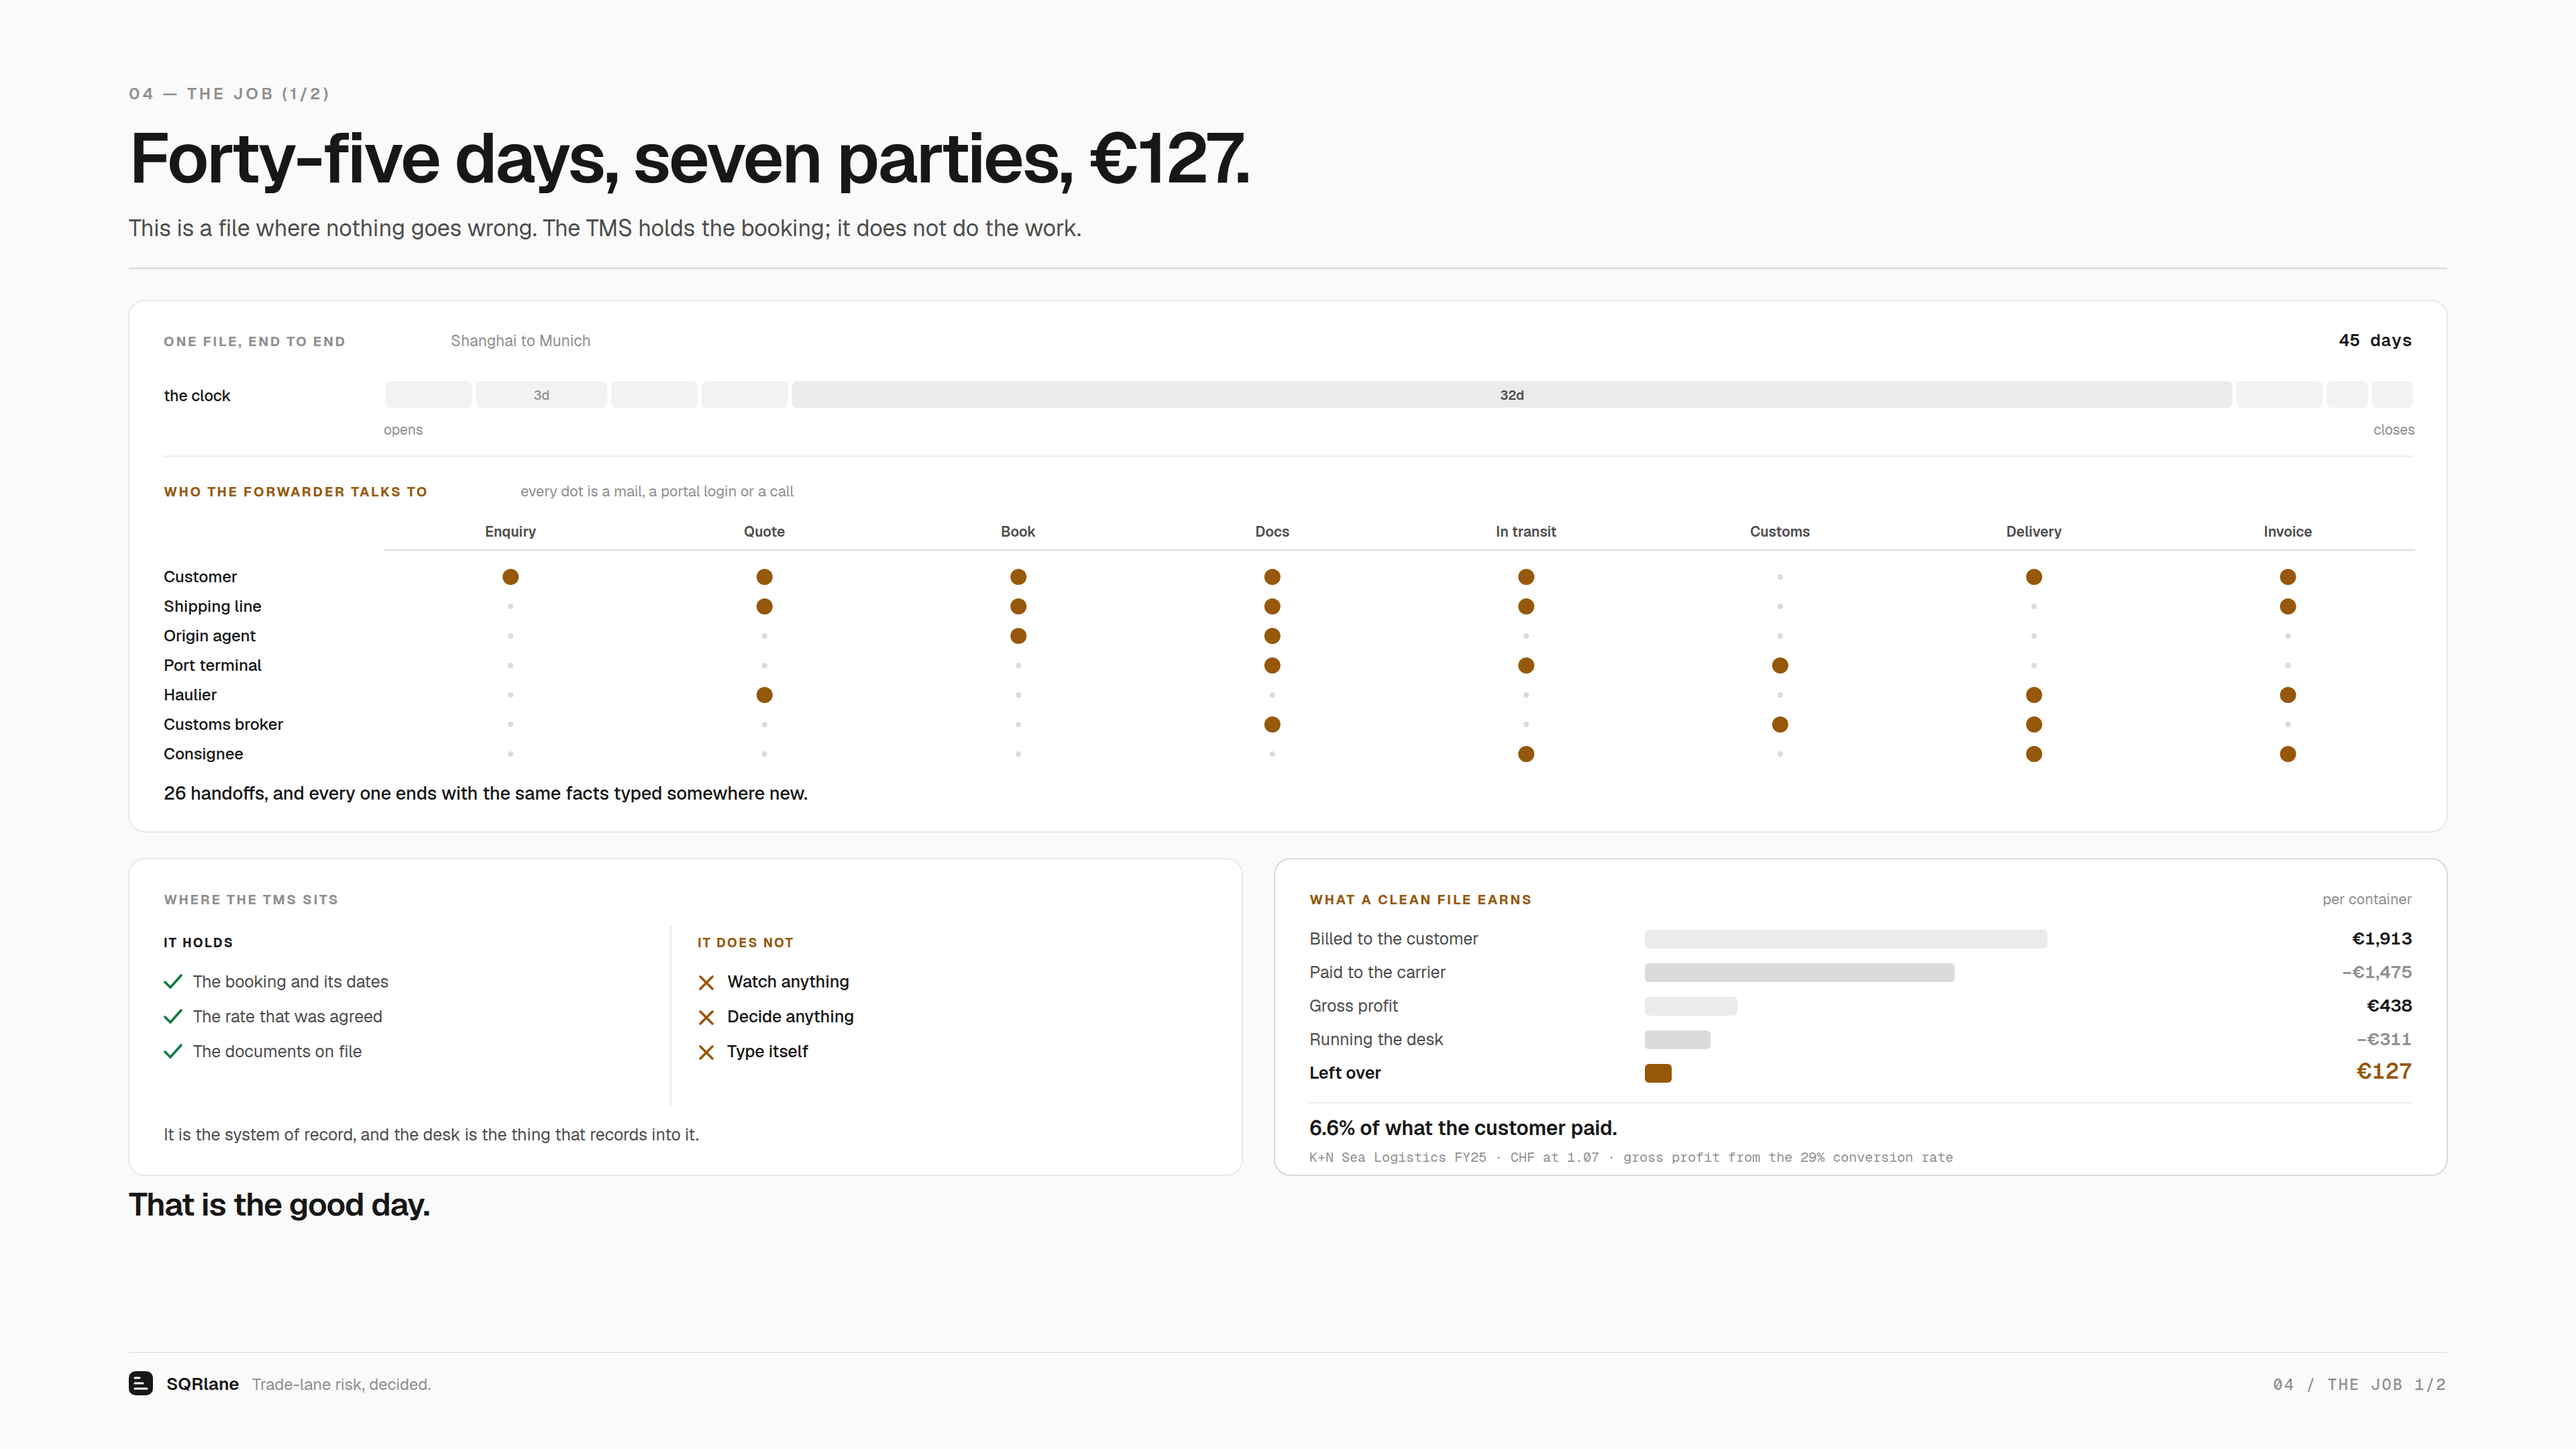
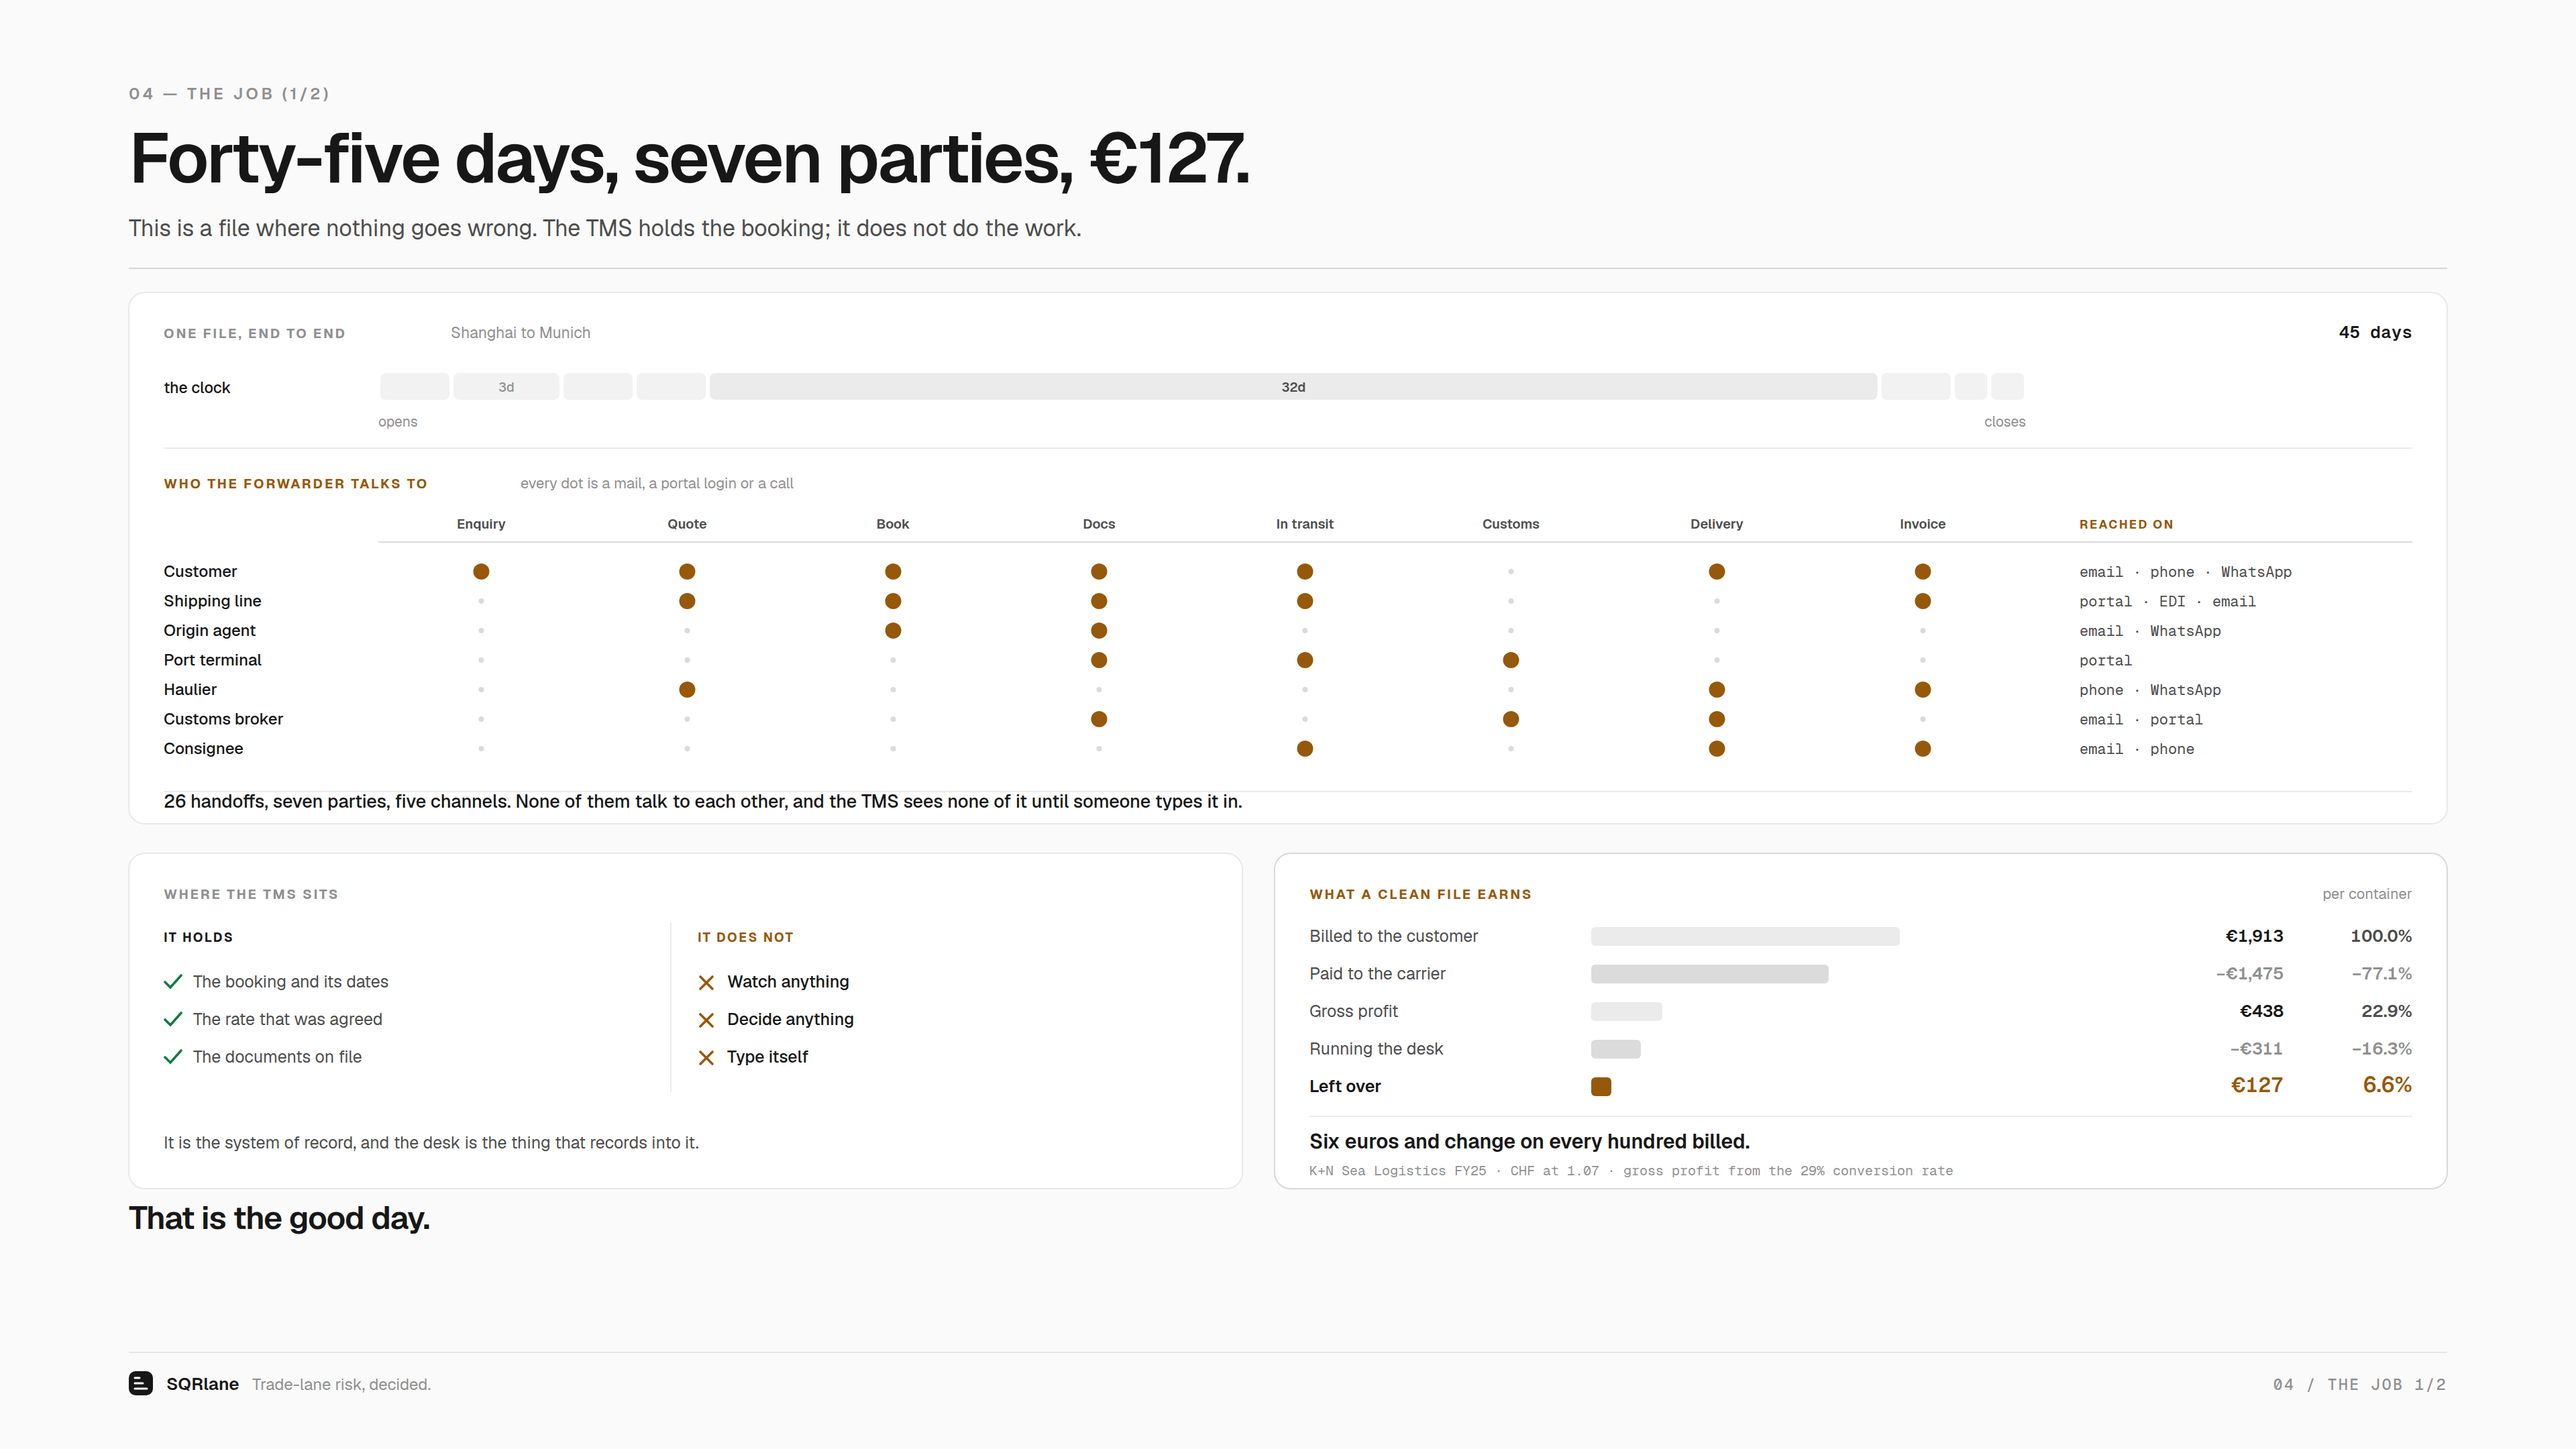
Deck: channels on the web, percentages on the waterfall, and both cards on one rhythm
The matrix showed how many handoffs there are but not what they run on, which
is half the mess. Every party now carries the channels it is actually reached
through - email, phone, WhatsApp, carrier portal, EDI - and the caption reads
26 handoffs, seven parties, five channels, none of them talking to each other,
and the TMS seeing none of it until someone types it in. That is the messy
process thesis stated in the data rather than asserted underneath it.

No percentages there on purpose. There is no published split of forwarder
communication by channel, so naming the channels is honest and inventing shares
for them would not be. The channels themselves are well documented; the mix is
not.

The waterfall gains a percent column beside the euros, since a margin case is
easier to feel as a proportion than an amount: 100% billed, 77% to the carrier,
23% gross, 16% to run the desk, 6.6% left. Its closing line follows - six euros
and change on every hundred billed.

Both bottom cards grow to 250px and share one internal rhythm, so their labels,
dividers and closing lines sit on the same baselines instead of drifting.

Claude-Session: https://claude.ai/code/session_01CuQZ1wNRwUerJJo7pbi7JH

diff --git a/deck/build_slide_04.py b/deck/build_slide_04.py
@@ -26,7 +26,7 @@ s.header("04 — THE JOB (1/2)",
 # =========================================================================
 # THE CLOCK, AND THE COORDINATION WEB
 # =========================================================================
-FY, FH = 224, 396
+FY, FH = 218, 396
 s.card(M, FY, CW, FH)
 s.text(M + 26, FY + 34, "ONE FILE, END TO END", 10, 700, FAINT, ls=1.4)
 s.text(M + 240, FY + 34, "Shanghai to Munich", 11.5, 400, FAINT)
@@ -34,7 +34,7 @@ s.text(W - M - 26, FY + 34, "45 days", 13, 600, FG, anchor="end", cls="mono")
 
 STAGES = [("Enquiry", 2), ("Quote", 3), ("Book", 2), ("Docs", 2),
           ("In transit", 32), ("Customs", 2), ("Delivery", 1), ("Invoice", 1)]
-TX0, TXW = M + 190, CW - 214
+TX0, TXW = M + 186, CW - 500
 UNIT = TXW / 45
 x = TX0
 for name, days in STAGES:
@@ -53,29 +53,36 @@ s.line(M + 26, FY + 116, W - M - 26, FY + 116, BORDER)
 s.text(M + 26, FY + 146, "WHO THE FORWARDER TALKS TO", 10, 700, AMBER, ls=1.4)
 s.text(M + 292, FY + 146, "every dot is a mail, a portal login or a call", 11, 400, FAINT)
 COLS = [n for n, _ in STAGES]
-PARTIES = [("Customer", [1, 1, 1, 1, 1, 0, 1, 1]), ("Shipping line", [0, 1, 1, 1, 1, 0, 0, 1]),
-           ("Origin agent", [0, 0, 1, 1, 0, 0, 0, 0]), ("Port terminal", [0, 0, 0, 1, 1, 1, 0, 0]),
-           ("Haulier", [0, 1, 0, 0, 0, 0, 1, 1]), ("Customs broker", [0, 0, 0, 1, 0, 1, 1, 0]),
-           ("Consignee", [0, 0, 0, 0, 1, 0, 1, 1])]
-TOUCHES = sum(sum(r) for _, r in PARTIES)
+PARTIES = [("Customer", [1, 1, 1, 1, 1, 0, 1, 1], "email · phone · WhatsApp"),
+           ("Shipping line", [0, 1, 1, 1, 1, 0, 0, 1], "portal · EDI · email"),
+           ("Origin agent", [0, 0, 1, 1, 0, 0, 0, 0], "email · WhatsApp"),
+           ("Port terminal", [0, 0, 0, 1, 1, 1, 0, 0], "portal"),
+           ("Haulier", [0, 1, 0, 0, 0, 0, 1, 1], "phone · WhatsApp"),
+           ("Customs broker", [0, 0, 0, 1, 0, 1, 1, 0], "email · portal"),
+           ("Consignee", [0, 0, 0, 0, 1, 0, 1, 1], "email · phone")]
+TOUCHES = sum(sum(r) for _, r, _ in PARTIES)
+CHX = TX0 + TXW + 40
 CWD = TXW / len(COLS)
 for c, lab in enumerate(COLS):
-    s.text(TX0 + c * CWD + CWD / 2, FY + 176, lab, 10.5, 600, MUTED, anchor="middle")
-s.line(TX0, FY + 186, TX0 + TXW, FY + 186, BORDER_STRONG)
-for r, (party, row) in enumerate(PARTIES):
-    y = FY + 206 + r * 22
+    s.text(TX0 + c * CWD + CWD / 2, FY + 176, lab, 10, 600, MUTED, anchor="middle")
+s.text(CHX, FY + 176, "REACHED ON", 9, 700, AMBER, ls=1.2)
+s.line(TX0, FY + 186, W - M - 26, FY + 186, BORDER_STRONG)
+for r, (party, row, chans) in enumerate(PARTIES):
+    y = FY + 208 + r * 22
     s.text(M + 26, y + 4, party, 12, 500, FG)
     for c, on in enumerate(row):
         cx = TX0 + c * CWD + CWD / 2
         s.raw(f'<circle cx="{cx}" cy="{y}" r="{6 if on else 2}" fill="{AMBER if on else GRAY400}"/>')
-s.text(M + 26, FY + FH - 24,
-       f"{TOUCHES} handoffs, and every one ends with the same facts typed somewhere new.",
-       13.5, 500, FG)
+    s.text(CHX, y + 4, chans, 11, 400, MUTED, cls="mono")
+s.line(M + 26, FY + 372, W - M - 26, FY + 372, BORDER)
+s.text(M + 26, FY + FH - 12,
+       f"{TOUCHES} handoffs, seven parties, five channels. None of them talk to each other, and the "
+       "TMS sees none of it until someone types it in.", 13.5, 500, FG)
 
 # =========================================================================
 # WHERE THE TMS SITS
 # =========================================================================
-TY2, TH3 = 640, 236
+TY2, TH3 = 636, 250
 s.card(M, TY2, 830, TH3)
 s.text(M + 26, TY2 + 34, "WHERE THE TMS SITS", 10, 700, FAINT, ls=1.4)
 for lab, x0, col, items in (
@@ -85,7 +92,7 @@ for lab, x0, col, items in (
                                          "Type itself"])):
     s.text(x0, TY2 + 66, lab, 9.5, 700, col, ls=1.2)
     for j, it in enumerate(items):
-        y = TY2 + 96 + j * 26
+        y = TY2 + 100 + j * 28
         if col is AMBER:
             s.raw(f'<path d="M{x0+2} {y-8} l9 9 M{x0+11} {y-8} l-9 9" stroke="{AMBER}" '
                   f'stroke-width="1.8" stroke-linecap="round"/>')
@@ -94,8 +101,8 @@ for lab, x0, col, items in (
                   f'fill="none" stroke-linecap="round"/>')
         s.text(x0 + 22, y, it, 12.5, 500 if col is AMBER else 400,
                FG if col is AMBER else MUTED)
-s.line(M + 404, TY2 + 50, M + 404, TY2 + TH3 - 52, BORDER)
-s.text(M + 26, TY2 + TH3 - 26,
+s.line(M + 404, TY2 + 52, M + 404, TY2 + TH3 - 72, BORDER)
+s.text(M + 26, TY2 + TH3 - 30,
        "It is the system of record, and the desk is the thing that records into it.", 12.5, 400, MUTED)
 
 # =========================================================================
@@ -106,24 +113,27 @@ s.card(BX, TY2, BW, TH3, stroke=BORDER_STRONG)
 s.text(BX + 26, TY2 + 34, "WHAT A CLEAN FILE EARNS", 10, 700, AMBER, ls=1.4)
 s.text(BX + BW - 26, TY2 + 34, "per container", 11, 400, FAINT, anchor="end")
 
-STEPS = [("Billed to the customer", 1913, GRAY400), ("Paid to the carrier", -1475, GRAY400),
-         ("Gross profit", 438, SURFACE_2), ("Running the desk", -311, GRAY400),
-         ("Left over", 127, AMBER)]
+STEPS = [("Billed to the customer", 1913, 100.0), ("Paid to the carrier", -1475, -77.1),
+         ("Gross profit", 438, 22.9), ("Running the desk", -311, -16.3),
+         ("Left over", 127, 6.6)]
 SX2, SWID = BX + 26, BW - 52
-for j, (lab, val, col) in enumerate(STEPS):
-    y = TY2 + 64 + j * 25
+for j, (lab, val, pct) in enumerate(STEPS):
+    y = TY2 + 66 + j * 28
     last = j == len(STEPS) - 1
+    col = AMBER if last else (SURFACE_2 if val > 0 else GRAY400)
     s.text(SX2, y, lab, 12.5, 600 if last else 400, FG if last else MUTED)
-    s.raw(f'<rect x="{SX2+250}" y="{y-11}" width="{abs(val)/1913*300:.0f}" height="14" rx="3" '
-          f'fill="{AMBER if last else (SURFACE_2 if val > 0 else GRAY400)}"/>')
-    s.raw(f'<text x="{SX2+SWID}" y="{y}" font-size="{16 if last else 13}" '
-          f'font-weight="600" fill="{AMBER if last else (FG if val>0 else FAINT)}" '
-          f'text-anchor="end" class="num">{"−" if val<0 else ""}€{abs(val):,}</text>')
+    s.raw(f'<rect x="{SX2+210}" y="{y-11}" width="{abs(pct)/100*230:.0f}" height="14" rx="3" fill="{col}"/>')
+    s.raw(f'<text x="{SX2+SWID-96}" y="{y}" font-size="{15 if last else 12.5}" font-weight="600" '
+          f'fill="{AMBER if last else (FG if val>0 else FAINT)}" text-anchor="end" class="num">'
+          f'{"−" if val<0 else ""}€{abs(val):,}</text>')
+    s.raw(f'<text x="{SX2+SWID}" y="{y}" font-size="{16 if last else 13}" font-weight="600" '
+          f'fill="{AMBER if last else (MUTED if val>0 else FAINT)}" text-anchor="end" class="num">'
+          f'{"−" if pct<0 else ""}{abs(pct):.1f}%</text>')
 s.line(SX2, TY2 + TH3 - 54, BX + BW - 26, TY2 + TH3 - 54, BORDER)
-s.text(SX2, TY2 + TH3 - 30, "6.6% of what the customer paid.", 15, 600, FG)
+s.text(SX2, TY2 + TH3 - 30, "Six euros and change on every hundred billed.", 15, 600, FG)
 s.text(SX2, TY2 + TH3 - 10, "K+N Sea Logistics FY25 · CHF at 1.07 · gross profit from the 29% conversion rate",
        10, 400, FAINT, cls="mono")
 
-s.text(M, 906, "That is the good day.", 24, 600, FG, ls=-0.5)
+s.text(M, 916, "That is the good day.", 24, 600, FG, ls=-0.5)
 s.footer("04 / THE JOB 1/2")
 s.write("slide-04-the-job.svg")
